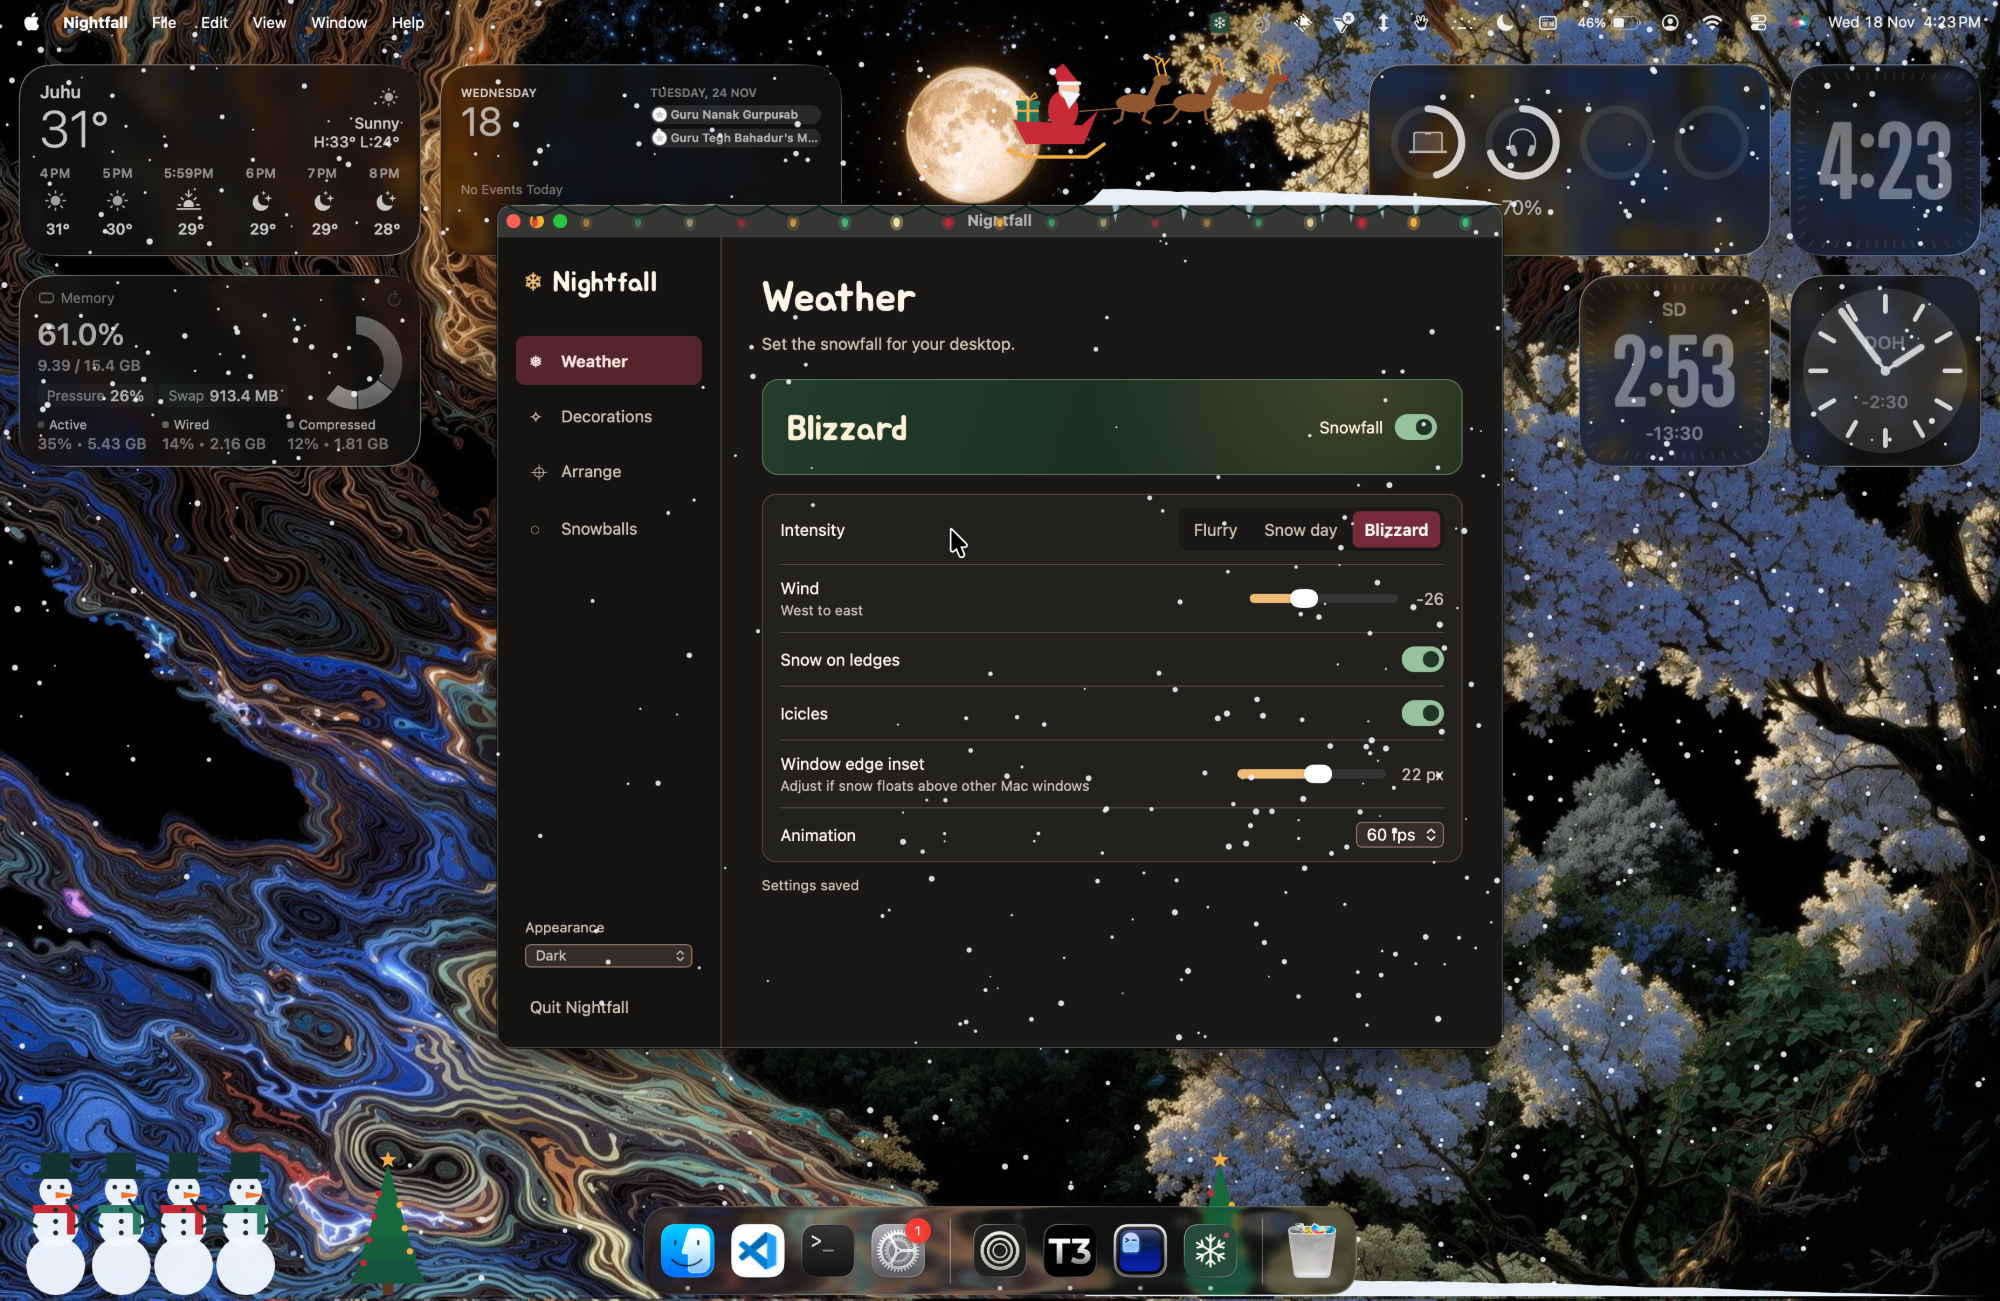
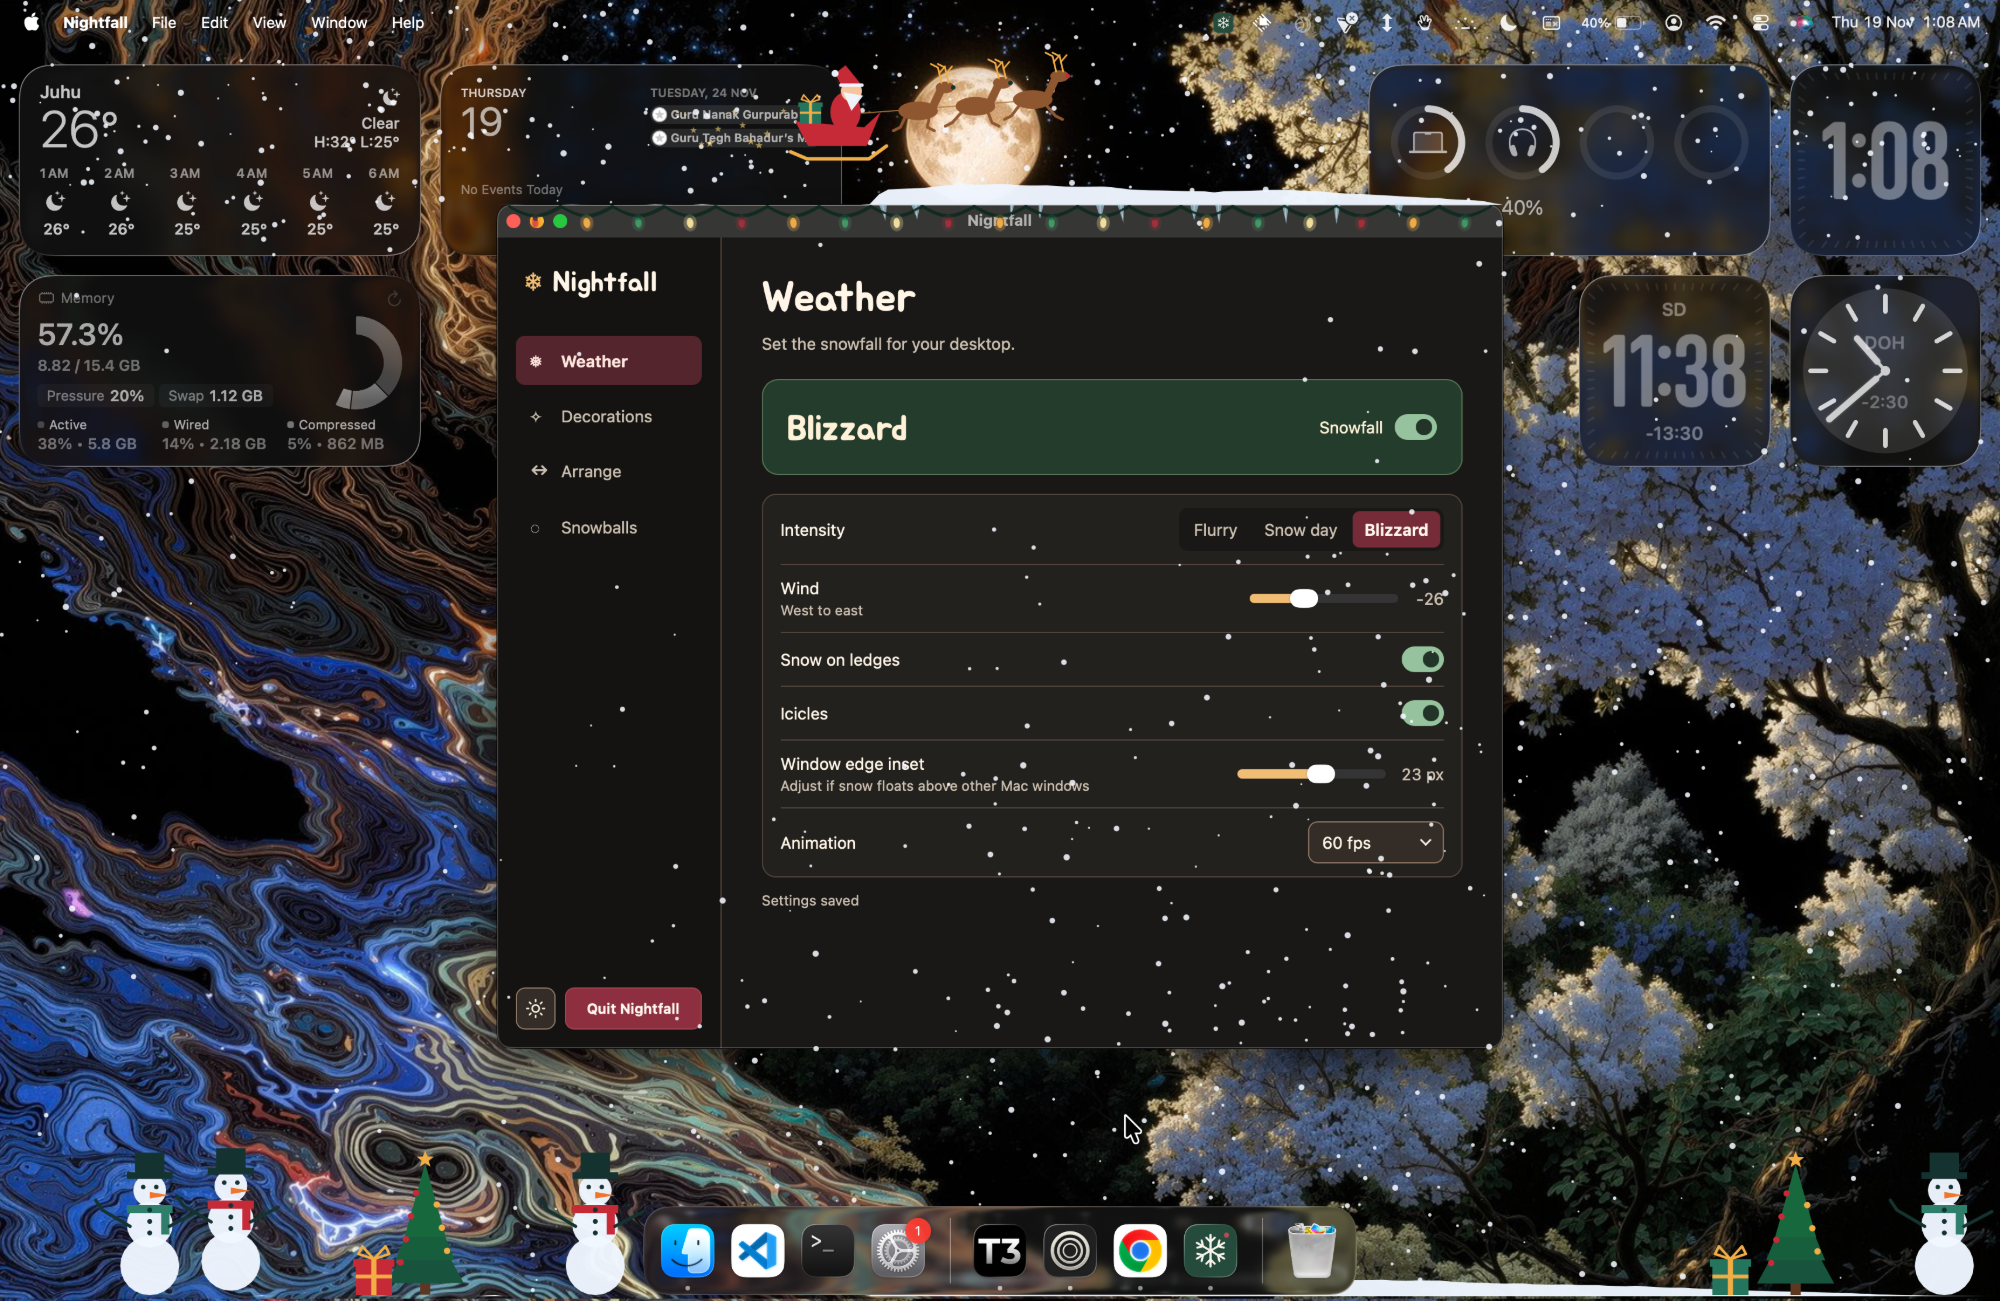
docs: explain why we built Nightfall and refresh screenshot

diff --git a/README.md b/README.md
@@ -1,8 +1,8 @@
 # nightfall
 
-a little snow on your desktop. santa makes the rounds and the snowmen can go wherever you like.
+i wanted snow on my desktop without paying for it, so we made Nightfall. it's a free alternative to [Snowfall for Mac](https://snowfallmac.com/) that works on macOS and Arch Linux with Hyprland.
 
-![Nightfall in blizzard mode on macOS, with window lights, snowmen and Santa flying past](assets/readme/desktop.png)
+![Nightfall in blizzard mode on macOS, with snow on the settings window, Christmas lights, and Santa flying past](assets/readme/desktop.png)
 
 ### get it on your Mac
 
@@ -18,8 +18,7 @@ curl -fsSL https://raw.githubusercontent.com/romeirofernandes/nightfall/main/dis
 bash /tmp/nightfall-install.sh
 ```
 
-open **Nightfall** and pick your weather. hit **Arrange** to move things around
-or roll the dice. if the snowballs get out of hand, press **Esc**.
+open **Nightfall** and pick your weather. hit **Arrange** to move the snowmen, trees, and gifts around. if the snowballs get out of hand, press **Esc**.
 
 rather stay in the terminal? run `nightfall`. [downloads](https://github.com/romeirofernandes/nightfall/releases/latest)
 
